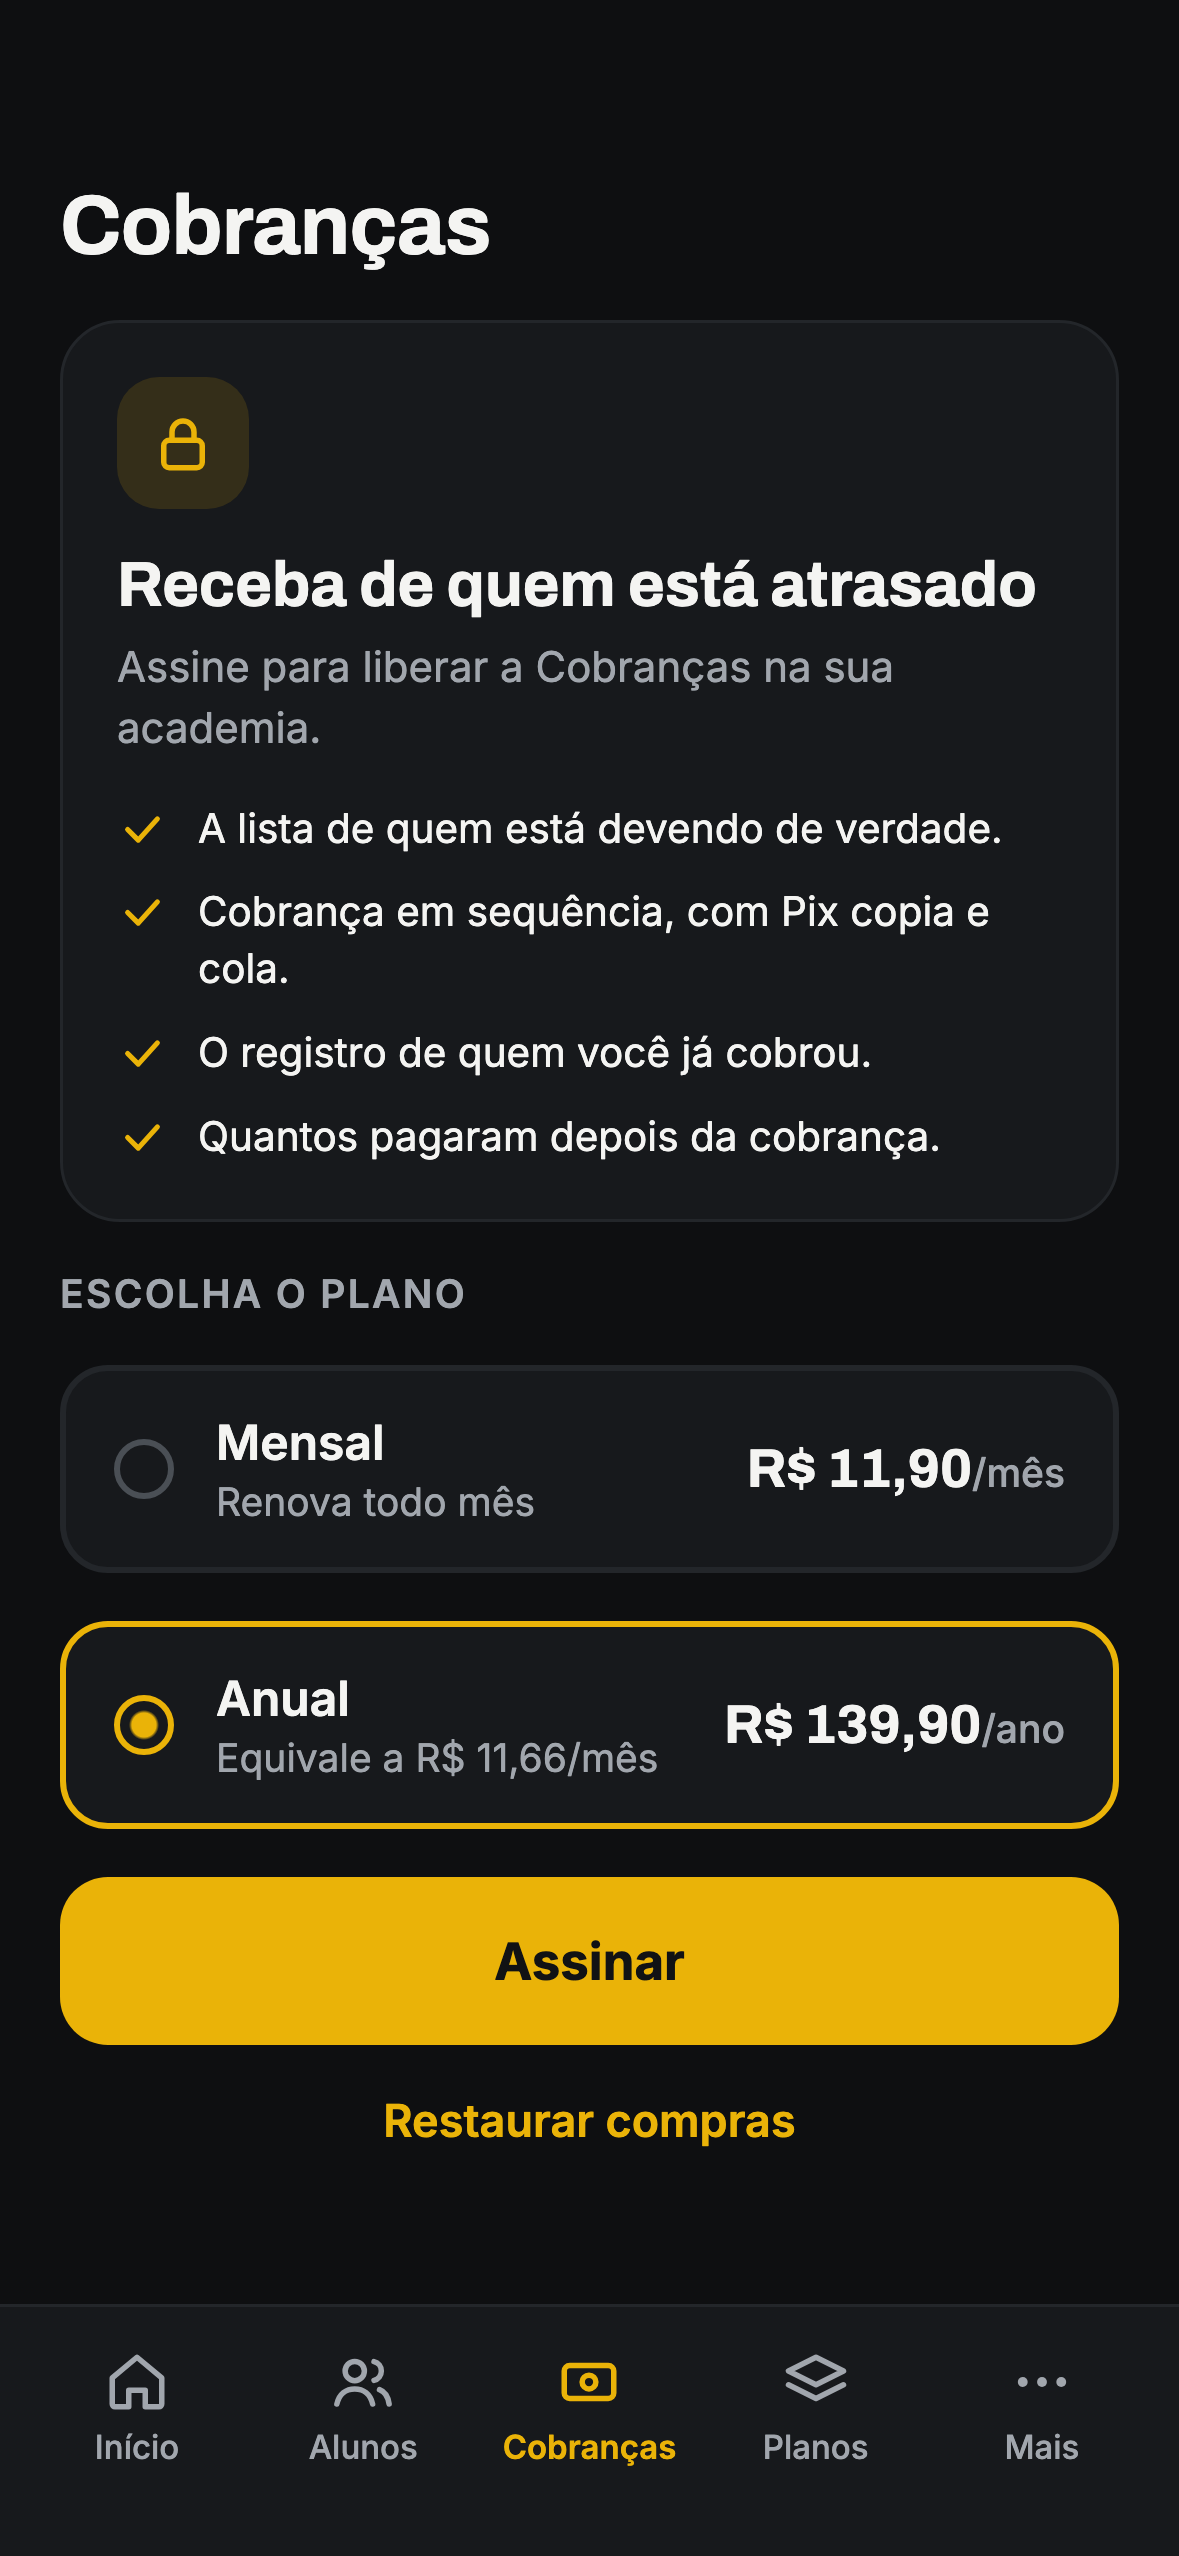
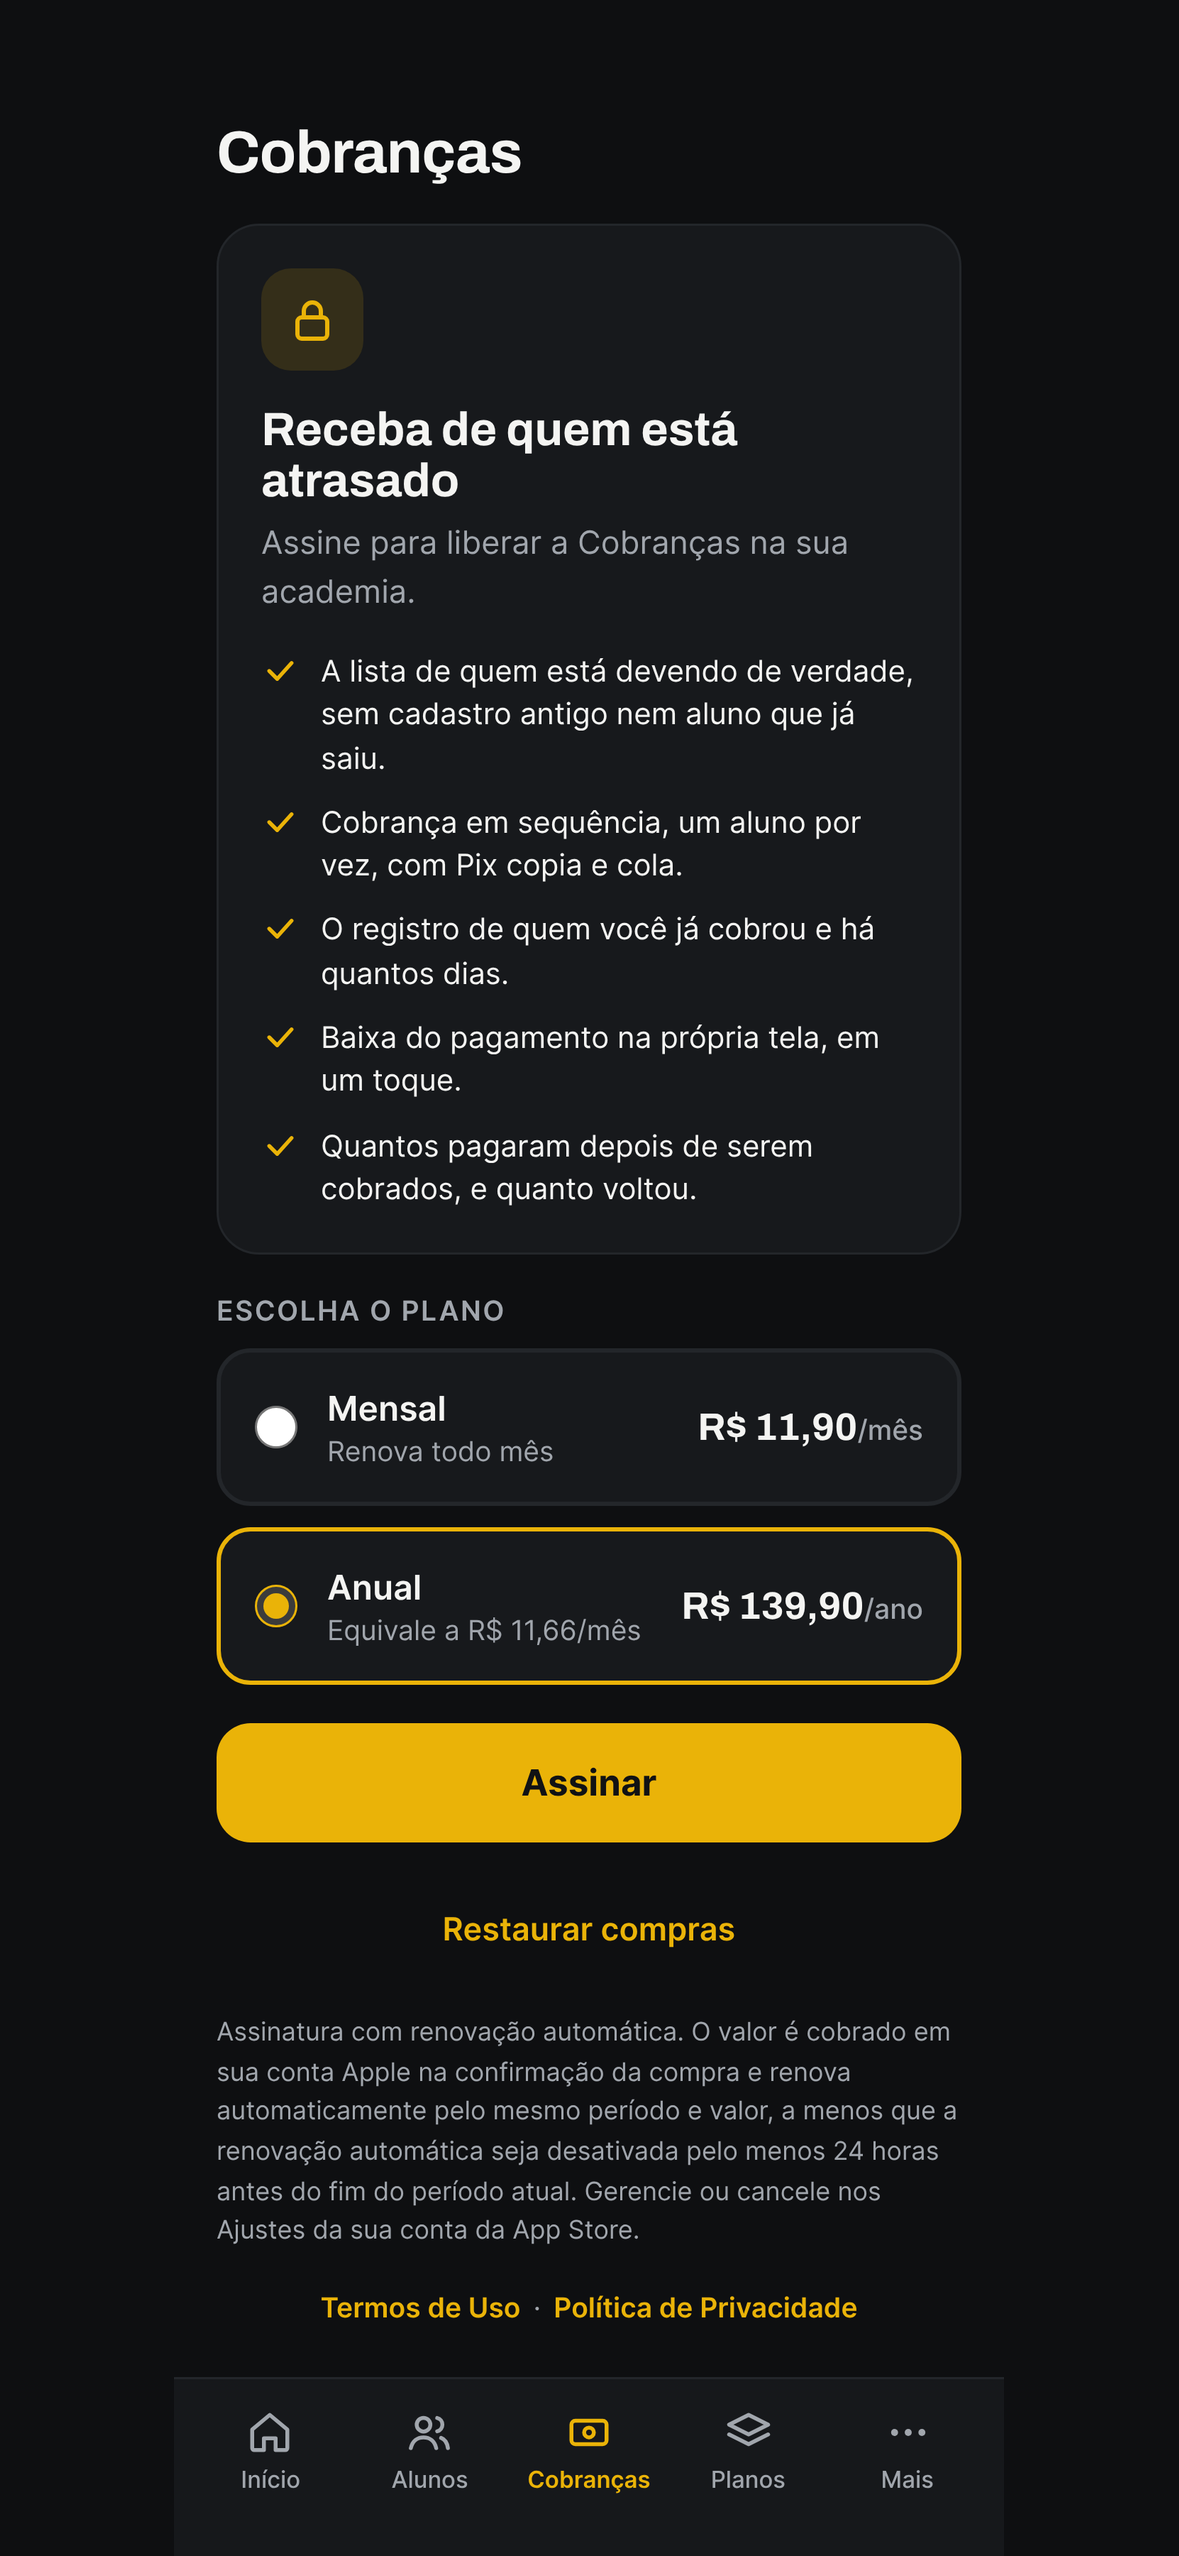
chore(loja): artes da 1.3.0 a partir dos boards do Claude Design
Cinco capturas para iPhone 6,9" e Play, recurso gráfico, artes de busca
e cabeçalho da App Store e a captura do paywall para a revisão, agora
inteira (encaixada pela altura em vez de cortada), com Assinar, Restaurar,
renovação automática e os links legais visíveis.

diff --git a/scripts/artes-loja.py b/scripts/artes-loja.py
@@ -182,12 +182,16 @@ def icone_play():
 
 def paywall_revisao():
     """Só com print do aparelho; sem ele, fica a provisória gerada do design."""
-    src = tela('paywall')
-    if src is None:
+    caminho_src = os.path.join(STORE, 'fontes', 'paywall.png')
+    if not os.path.exists(caminho_src):
         return False
-    out = src.resize((1179, int(src.height * 1179 / src.width)), Image.LANCZOS)
+    # Sem corte: a revisão precisa ver o "Assinar", o "Restaurar" e o texto
+    # de renovação. Board mais alto que a tela é encaixado pela altura.
+    src = Image.open(caminho_src).convert('RGB')
+    escala = min(1179 / src.width, 2556 / src.height)
+    out = src.resize((int(src.width * escala), int(src.height * escala)), Image.LANCZOS)
     fundo = Image.new('RGB', (1179, 2556), FUNDO)
-    fundo.paste(out.crop((0, 0, 1179, min(out.height, 2556))), (0, 0))
+    fundo.paste(out, ((1179 - out.width) // 2, (2556 - out.height) // 2))
     caminho = os.path.join(STORE, 'appstore-revisao-paywall-1179x2556.png')
     fundo.save(caminho, optimize=True)
     print(caminho, 'do aparelho')
